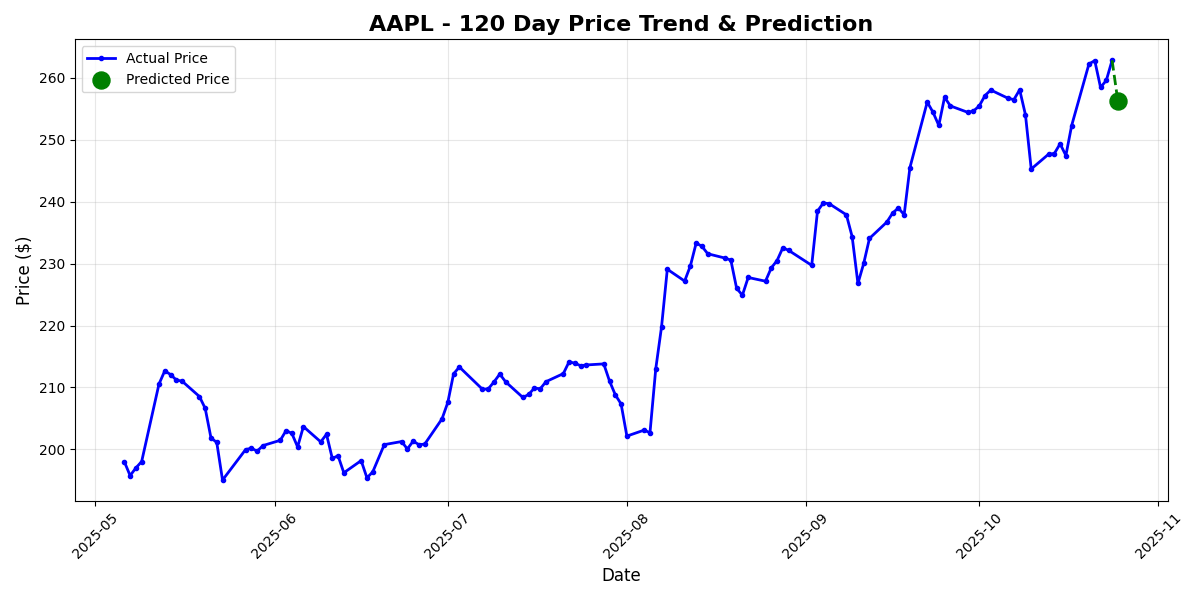
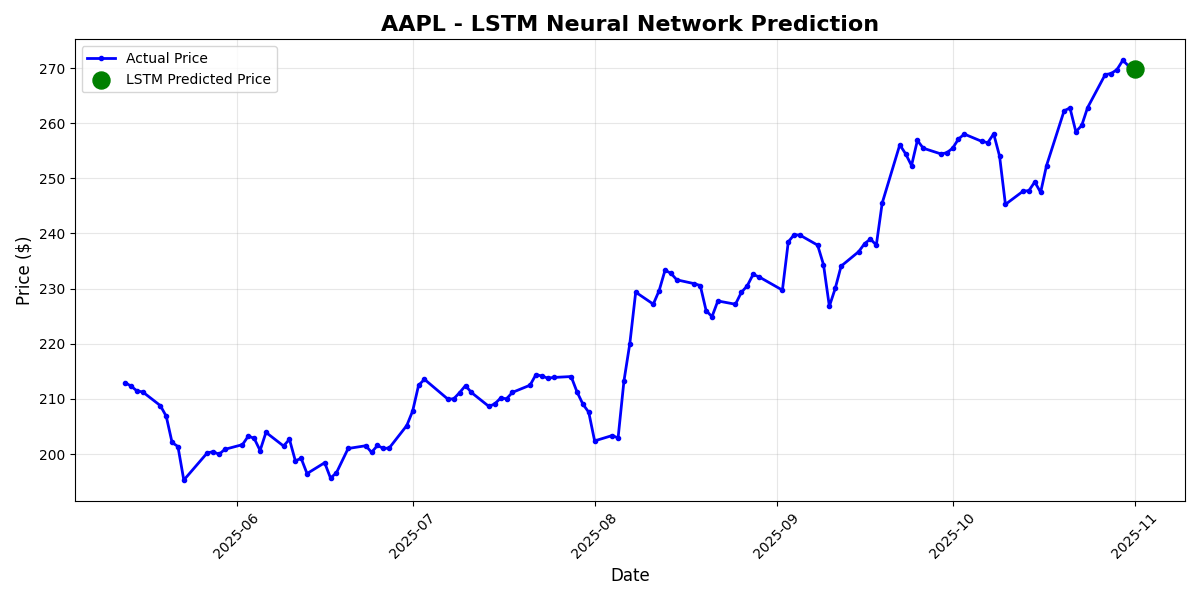
stock market with lstm training

diff --git a/model.py b/model.py
@@ -4,15 +4,21 @@ matplotlib.use('Agg')  # Non-GUI backend for macOS
 import matplotlib.pyplot as plt
 import numpy as np
 import pandas as pd
-from sklearn.linear_model import LinearRegression
+from sklearn.preprocessing import MinMaxScaler
 from alpha_vantage.timeseries import TimeSeries
 import yfinance as yf
+import tensorflow as tf
+import warnings
+warnings.filterwarnings('ignore')
+
+# Set TensorFlow to only show errors
+os.environ['TF_CPP_MIN_LOG_LEVEL'] = '2'
 
 # ---------------- API Key ----------------
 API_KEY = 'A1AP3WSVCIITGGT8'
 
 # ---------------- Fetch Stock Data Safely ----------------
-def fetch_stock_data(symbol, period="1y"):  # Changed from "6mo" to "1y"
+def fetch_stock_data(symbol, period="1y"):
     """
     Fetch closing prices for a stock symbol.
     - Alpha Vantage for US stocks
@@ -35,6 +41,37 @@ def fetch_stock_data(symbol, period="1y"):  # Changed from "6mo" to "1y"
         close = data['Close'].squeeze().sort_index()
         return close
 
+# ---------------- Create LSTM Dataset ----------------
+def create_lstm_dataset(data, lookback=60):
+    """
+    Create sequences for LSTM training
+    lookback: number of previous days to use for prediction
+    """
+    X, y = [], []
+    for i in range(lookback, len(data)):
+        X.append(data[i-lookback:i])
+        y.append(data[i])
+    return np.array(X), np.array(y)
+
+# ---------------- Build LSTM Model ----------------
+def build_lstm_model(lookback=60):
+    """
+    Build and compile LSTM neural network
+    """
+    model = tf.keras.Sequential([
+        tf.keras.layers.LSTM(50, return_sequences=True, input_shape=(lookback, 1)),
+        tf.keras.layers.Dropout(0.2),
+        tf.keras.layers.LSTM(50, return_sequences=True),
+        tf.keras.layers.Dropout(0.2),
+        tf.keras.layers.LSTM(50, return_sequences=False),
+        tf.keras.layers.Dropout(0.2),
+        tf.keras.layers.Dense(25),
+        tf.keras.layers.Dense(1)
+    ])
+    
+    model.compile(optimizer='adam', loss='mean_squared_error')
+    return model
+
 # ---------------- Predict Stock Price ----------------
 def predict_stock_price(symbol):
     """
@@ -43,18 +80,73 @@ def predict_stock_price(symbol):
     - last_close: last available closing price
     - data_recent: last 120 days of actual prices (pandas Series)
     """
-    data = fetch_stock_data(symbol)
-    last_close = data.iloc[-1]
-    
-    # Linear regression on last 120 days
-    data_recent = data[-120:]
-    X = np.arange(len(data_recent)).reshape(-1, 1)
-    y = data_recent.values.reshape(-1, 1)
-    model = LinearRegression()
-    model.fit(X, y)
-    predicted = model.predict(np.array([[len(data_recent)]]))[0][0]
-    
-    return round(predicted, 2), last_close, data_recent
+    try:
+        print(f"   🧠 Training LSTM model for {symbol}...")
+        
+        # Fetch data
+        data = fetch_stock_data(symbol)
+        last_close = data.iloc[-1]
+        
+        # Use last 120 days for display (but train on more data)
+        data_recent = data[-120:]
+        
+        # Prepare data for LSTM
+        scaler = MinMaxScaler(feature_range=(0, 1))
+        scaled_data = scaler.fit_transform(data.values.reshape(-1, 1))
+        
+        # Create sequences (use 60-day lookback)
+        lookback = 60
+        X, y = create_lstm_dataset(scaled_data, lookback)
+        
+        if len(X) == 0:
+            print("   ⚠  Not enough data for LSTM, falling back to simple prediction")
+            # Fallback to last price if not enough data
+            return round(float(last_close), 2), last_close, data_recent, None
+        
+        # Split data (use 80% for training)
+        train_size = int(len(X) * 0.8)
+        X_train, X_test = X[:train_size], X[train_size:]
+        y_train, y_test = y[:train_size], y[train_size:]
+        
+        # Reshape for LSTM [samples, time steps, features]
+        X_train = X_train.reshape((X_train.shape[0], X_train.shape[1], 1))
+        X_test = X_test.reshape((X_test.shape[0], X_test.shape[1], 1))
+        
+        # Build and train model
+        model = build_lstm_model(lookback)
+        
+        print(f"   📚 Training on {len(X_train)} samples...")
+        history = model.fit(X_train, y_train, epochs=20, batch_size=32, verbose=0, validation_split=0.1)
+        
+        # Evaluate model on test set
+        train_loss = model.evaluate(X_train, y_train, verbose=0)
+        test_loss = model.evaluate(X_test, y_test, verbose=0)
+        
+        # Calculate accuracy from loss (lower loss = higher accuracy)
+        # MSE to percentage accuracy estimation
+        train_mse_percent = (train_loss ** 0.5) / np.mean(y_train) * 100
+        test_mse_percent = (test_loss ** 0.5) / np.mean(y_test) * 100
+        accuracy = max(0, min(100, 100 - test_mse_percent))
+        
+        print(f"   ✅ Model trained! Train Loss: {train_loss:.4f}, Test Loss: {test_loss:.4f}")
+        print(f"   📊 Estimated Accuracy: {accuracy:.2f}%")
+        
+        # Predict next day
+        last_sequence = scaled_data[-lookback:].reshape((1, lookback, 1))
+        predicted_scaled = model.predict(last_sequence, verbose=0)
+        predicted = scaler.inverse_transform(predicted_scaled)[0][0]
+        
+        return round(float(predicted), 2), last_close, data_recent, round(accuracy, 2)
+        
+    except Exception as e:
+        print(f"   ❌ Error in predict_stock_price: {e}")
+        import traceback
+        traceback.print_exc()
+        # Return with None accuracy on error
+        data = fetch_stock_data(symbol)
+        last_close = data.iloc[-1]
+        data_recent = data[-120:]
+        return round(float(last_close), 2), last_close, data_recent, None
 
 # ---------------- Buy/Hold/Avoid Suggestion ----------------
 def get_buy_suggestion(last_close, predicted):
@@ -73,13 +165,13 @@ def get_buy_suggestion(last_close, predicted):
     
     if change_percent >= 2:
         suggestion = "✅ Suggested: Good time to BUY this stock."
-        reasoning = f"Predicted price {predicted:.2f} is {change_percent:.2f}% higher than last close {last_close:.2f}, indicating upward momentum."
+        reasoning = f"LSTM model predicts price {predicted:.2f} is {change_percent:.2f}% higher than last close {last_close:.2f}, indicating upward momentum."
     elif change_percent <= -2:
         suggestion = "❌ Suggested: Avoid buying right now."
-        reasoning = f"Predicted price {predicted:.2f} is {abs(change_percent):.2f}% lower than last close {last_close:.2f}, suggesting a potential downward trend."
+        reasoning = f"LSTM model predicts price {predicted:.2f} is {abs(change_percent):.2f}% lower than last close {last_close:.2f}, suggesting a potential downward trend."
     else:
         suggestion = "⏳ Suggested: Hold / Wait."
-        reasoning = f"Predicted price {predicted:.2f} is close to last close {last_close:.2f}, indicating minimal expected movement."
+        reasoning = f"LSTM model predicts price {predicted:.2f} is close to last close {last_close:.2f}, indicating minimal expected movement."
     
     return suggestion, reasoning
 
@@ -93,10 +185,10 @@ def save_plot(symbol, predicted, data_recent, path):
     
     # Predicted next day
     next_day = data_recent.index[-1] + pd.Timedelta(days=1)
-    plt.scatter(next_day, predicted, color='green', s=150, label='Predicted Price', zorder=5)
+    plt.scatter(next_day, predicted, color='green', s=150, label='LSTM Predicted Price', zorder=5)
     plt.plot([data_recent.index[-1], next_day], [data_recent.values[-1], predicted], linestyle='--', color='green', linewidth=2)
     
-    plt.title(f"{symbol} - 120 Day Price Trend & Prediction", fontsize=16, fontweight='bold')
+    plt.title(f"{symbol} - LSTM Neural Network Prediction", fontsize=16, fontweight='bold')
     plt.xlabel("Date", fontsize=12)
     plt.ylabel("Price ($)", fontsize=12)
     plt.xticks(rotation=45)
@@ -109,69 +201,86 @@ def save_plot(symbol, predicted, data_recent, path):
 # ---------------- Calculate accuracy ----------------
 def calculate_accuracy(symbol, days_back=30):
     """
-    Backtest the model by predicting past days and comparing with actual prices.
+    Backtest the LSTM model by predicting past days and comparing with actual prices.
     Returns accuracy percentage.
     """
     try:
-        print(f"   🔍 Starting accuracy calculation for {symbol}...")
+        print(f"   🔍 Starting LSTM accuracy calculation for {symbol}...")
         
-        # Fetch data for backtesting - 1 year to ensure we have enough
+        # Fetch data for backtesting
         data = fetch_stock_data(symbol, period="1y")
         
         print(f"   📊 Fetched {len(data)} days of data for backtesting")
         print(f"   📅 Date range: {data.index[0]} to {data.index[-1]}")
         
-        if len(data) < 150:  # Need enough data for backtesting (120 + 30 buffer)
+        if len(data) < 150:
             print(f"   ⚠  Not enough data ({len(data)} days). Need at least 150 days.")
             return None
         
         predictions = []
         actuals = []
         
-        # Test on last 'days_back' days
-        test_days = min(days_back, len(data) - 120)
-        print(f"   🧪 Will test {test_days} predictions")
+        # Prepare scaler
+        scaler = MinMaxScaler(feature_range=(0, 1))
+        scaled_data = scaler.fit_transform(data.values.reshape(-1, 1))
+        
+        lookback = 60
+        test_days = min(days_back, len(data) - 150)
+        print(f"   🧪 Will test {test_days} LSTM predictions")
         
         for i in range(test_days, 0, -1):
             # Use data up to 'i' days ago
-            historical_data = data[:-i]
+            historical_data = scaled_data[:-i]
             
-            # Get actual price - convert to float properly
+            # Get actual price
             actual_price = data.iloc[-i]
             if isinstance(actual_price, pd.Series):
                 actual_price = float(actual_price.item())
             else:
                 actual_price = float(actual_price)
             
-            # Use last 120 days of historical data for prediction
-            data_recent = historical_data[-120:]
-            
-            if len(data_recent) < 120:
+            # Need enough data for training
+            if len(historical_data) < lookback + 50:
                 continue
-                
-            X = np.arange(len(data_recent)).reshape(-1, 1)
-            y = data_recent.values.reshape(-1, 1)
             
-            model = LinearRegression()
-            model.fit(X, y)
+            # Create sequences
+            X, y = create_lstm_dataset(historical_data, lookback)
             
-            predicted = model.predict(np.array([[len(data_recent)]]))[0][0]
+            if len(X) < 50:
+                continue
+            
+            # Use last 80% for training
+            train_size = int(len(X) * 0.8)
+            X_train = X[:train_size]
+            y_train = y[:train_size]
+            
+            # Reshape
+            X_train = X_train.reshape((X_train.shape[0], X_train.shape[1], 1))
+            
+            # Build and train model
+            model = build_lstm_model(lookback)
+            model.fit(X_train, y_train, epochs=15, batch_size=32, verbose=0)
+            
+            # Predict
+            last_sequence = historical_data[-lookback:].reshape((1, lookback, 1))
+            predicted_scaled = model.predict(last_sequence, verbose=0)
+            predicted = scaler.inverse_transform(predicted_scaled)[0][0]
             
             predictions.append(float(predicted))
             actuals.append(actual_price)
         
         print(f"   📈 Total successful predictions: {len(predictions)}")
         
-        # Calculate accuracy using MAPE (Mean Absolute Percentage Error)
+        # Calculate accuracy using MAPE
         if len(predictions) == 0:
             print(f"   ⚠  No predictions made")
             return None
             
         errors = [abs((actual - pred) / actual) * 100 for actual, pred in zip(actuals, predictions)]
         mape = np.mean(errors)
-        accuracy = 100 - mape  # Convert error to accuracy
+        accuracy = 100 - mape
         
-        calculated_accuracy = max(0, min(100, round(accuracy, 2)))  # Ensure between 0-100
+        calculated_accuracy = max(0, min(100, round(accuracy, 2)))
         print(f"   ✅ MAPE: {mape:.2f}%, Final Accuracy: {calculated_accuracy}%")
         
         return calculated_accuracy

diff --git a/app.py b/app.py
@@ -1,5 +1,5 @@
 from flask import Flask, render_template, request
-from model import predict_stock_price, get_buy_suggestion, save_plot, calculate_accuracy
+from model import predict_stock_price, get_buy_suggestion, save_plot
 import os
 
 app = Flask(__name__)
@@ -20,28 +20,17 @@ def home():
     if request.method == 'POST':
         symbol = request.form['symbol'].upper().strip()
         try:
-            # Get prediction
-            prediction, last_close, data_recent = predict_stock_price(symbol)
-            print(f"✅ Prediction successful: {prediction}")
+            # Get prediction WITH accuracy from LSTM training
+            prediction, last_close, data_recent, accuracy = predict_stock_price(symbol)
             
             # Get buy/sell suggestion
             suggestion, reasoning = get_buy_suggestion(last_close, prediction)
-            print(f"✅ Suggestion successful: {suggestion}")
-            
-            # Calculate model accuracy
-            print(f"🔍 Calculating accuracy for {symbol}...")
-            accuracy = calculate_accuracy(symbol, days_back=30)
-            print(f"✅ Accuracy calculated: {accuracy}%")
 
             # Save plot for frontend
             plot_path = f"static/{symbol}_plot.png"
             save_plot(symbol, prediction, data_recent, plot_path)
-            print(f"✅ Plot saved")
 
         except Exception as e:
-            print(f"❌ Error occurred: {str(e)}")
-            import traceback
-            traceback.print_exc()
             prediction = f"Error: {str(e)}"
             suggestion = ""
             reasoning = ""
@@ -60,11 +49,3 @@ def home():
 
 if __name__ == '__main__':
     app.run(debug=True)
-
-'''
-cd ~/Desktop/stock-market-predictor
-
-source venv/bin/activate
-
-python -m flask run --host=0.0.0.0 --port=8080
-'''
